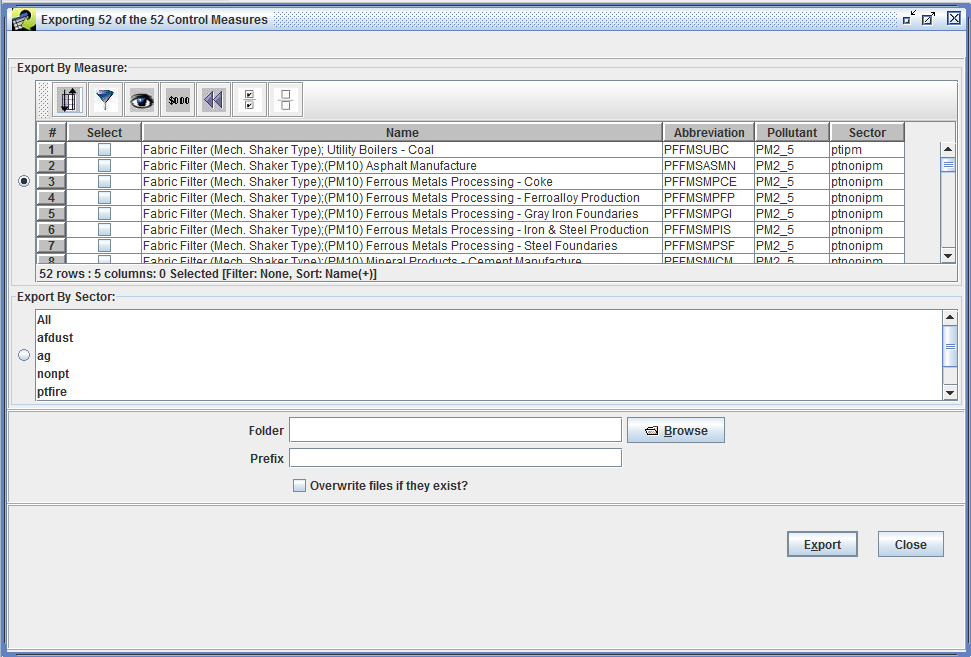
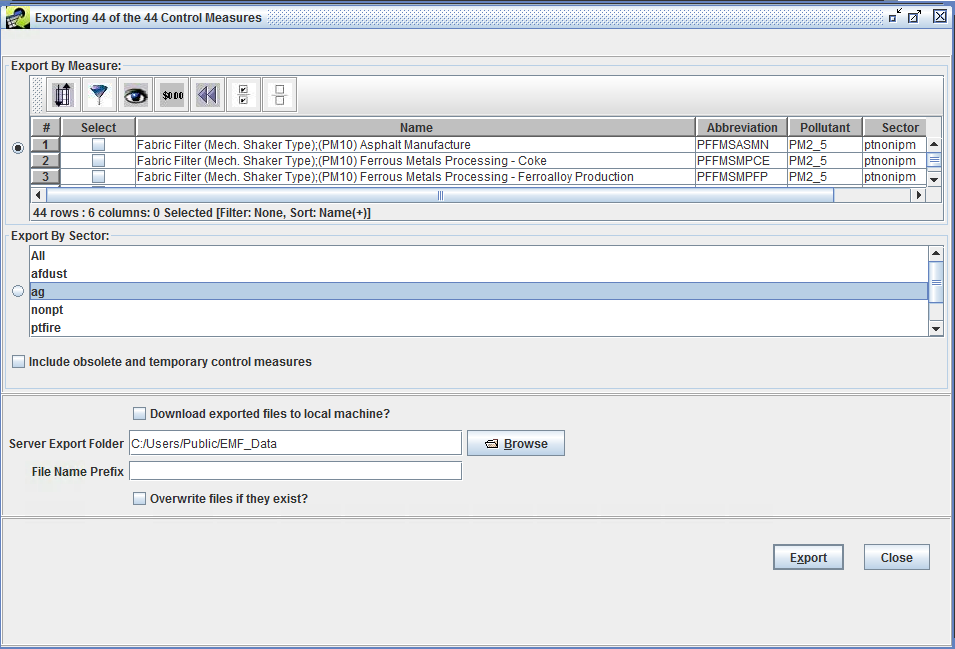
update export control measure

Changed region(s): [[0.0, 0.0, 1.0, 1.0]]

diff --git a/EMF/deploy/doc/guides/cost/ch3_control_measure_manager.md b/EMF/deploy/doc/guides/cost/ch3_control_measure_manager.md
@@ -587,7 +587,7 @@ Note that if an equation is specified for a measure, and there are no default CP
 
 It is possible to export control measure data to a set of CSV files. To do this, you first need to identify a set of control measures for which you wish to export data. You can export measures based on specifically selected control measures via the Control Measure Manager, or you can export measures associated to a certain sector.
 
-97\. For example, to export some measures that control PM10, set the **Pollutant Filter** on the Control Measure Manager to **PM10**. Next, use the Filter Rows button the toolbar and enter the following criterion: **Name contains Fabric Filter**. You should see about 52 measures in the manager.
+97\. For example, to export some measures that control PM10, set the **Pollutant Filter** on the Control Measure Manager to **PM10**. Next, use the Filter Rows button the toolbar and enter the following criterion: **Name contains Fabric Filter**. You should see about 44 measures in the manager.
 
 98\. Click the **Select all** button on the Control Measure Manager toolbar, and then click the **Export** button. The Exporting Control Measures dialog ([Figure](#exporting_control_measures_dialog)) will appear.
 
